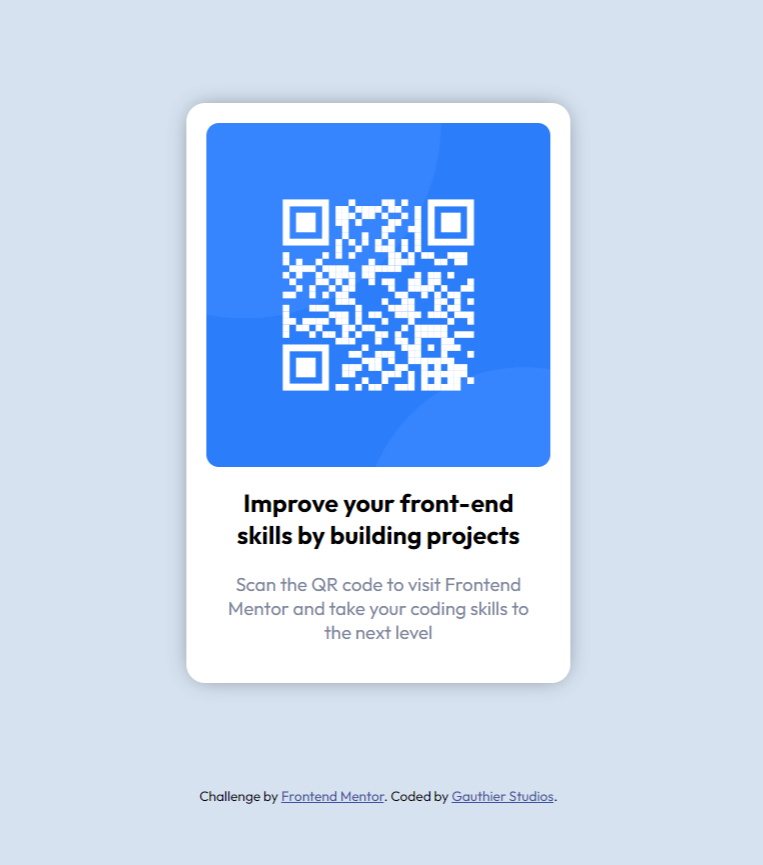
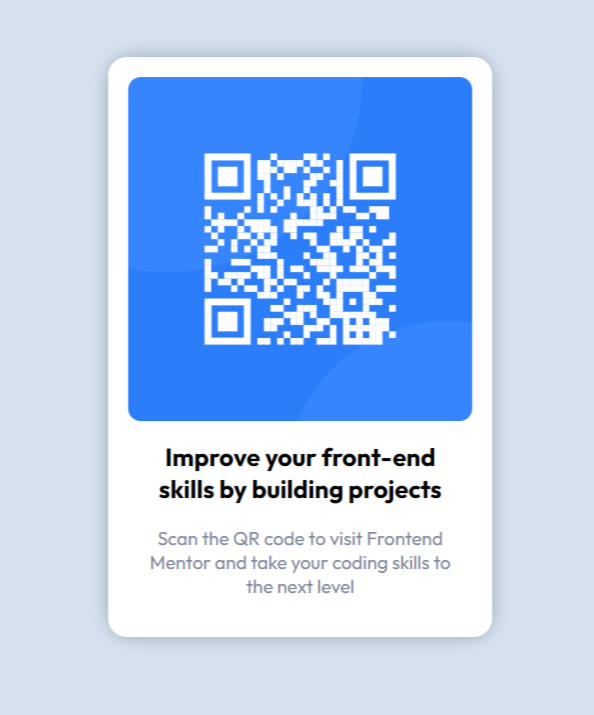
changing

diff --git a/css/main.css b/css/main.css
@@ -12,8 +12,9 @@
     /* accent */
     --accent: #FF5E5B;
     --accent50: #ff5e5b50;
-
-
+    --lightgray: hsl(212, 45%, 89%);
+    --grayishblue: hsl(220, 15%, 55%);
+    --darkblue: hsl(218, 44%, 22%);
     /* font size*/
     --h1-font-size: 3.5rem;
     --h2-font-size: 2.5em;
@@ -212,6 +213,7 @@ nav i:hover {
     #menu {
         display: block;
     }
+
     nav {
         padding: .30rem 0;
     }
@@ -224,6 +226,7 @@ nav i:hover {
         margin: auto;
         width: 100%;
     }
+
     nav div h1 a {
         margin: 0;
     }
@@ -231,9 +234,11 @@ nav i:hover {
     .icon {
         display: none;
     }
+
     .menu-items {
         margin-top: 0;
     }
+
     .menu-items ul {
         display: flex;
         justify-content: end;
@@ -242,6 +247,7 @@ nav i:hover {
     .menu-items ul li i {
         margin: 0;
     }
+
     .menu-items ul li {
         margin: 0 auto;
         font-size: var(--h5-font-size);
@@ -390,68 +396,105 @@ nav i:hover {
 /* My Work */
 
 .work {
-    height: 100vh;
-    background-color: black;
+    height: auto;
+    margin: 0 auto;
+    padding:  1em 0;
+    /* background-color: white; */
+}
+
+.work * {
+    /* color: ; */
 }
 
 .work h2 {
+    color: black;
     font-size: calc(var(--h2-font-size) + 40%);
     margin: 0;
     padding: .5em 0;
     text-align: center;
 }
 
-.work-card {
-    position: relative;
-    background-image: url(/assets/qrcode.png);
-    background-repeat: no-repeat;
-    background-size:cover;
-    height: 40vh;
+
+
+.cards-container {
+    height: 100vh;
+    padding: 0 2em;
+    display: flex;
+    flex-direction: row;
+    flex-wrap: wrap;
+    justify-content: space-between;
+}
+
+@media screen and (min-width: 800px){
+    .cards-container {
+            flex-wrap: nowrap;
+        }
+}
+
+
+.cards-inner {
+    margin: 0 10px;
+}
+
+.cards-inner p {
+    display: none;
+}
+
+
+.card {
+    /* box-shadow: rgb(0, 0, 0) 0px 25px 20px -20px; */
+    box-shadow: rgba(0, 0, 0, 0.18) 0px 2px 4px;
+    margin: 0 auto;
+}
+
+
+.card-content {
+    background-color: white;
+    border-radius: 15px;
+    border: var(--lightgray);
+    padding: 1em 1em 0 1em;
+    margin: 10vh 0;
     display: flex;
     flex-direction: column;
+    justify-content: center;
+    align-items: center;
+    box-shadow: 0px 0px 18px -6px rgba(0, 0, 0, 0.55);
 }
 
-.work-card * {
-    color: black;
+.card-content img {
+    width: 100%;
+    border-radius: 10px;
 }
 
-.work-card .date {
-    position: absolute;
-    bottom: 4px;
-    right: 1px;
-    font-size: var(--h6-font-size);
-    color: var(--secondary-color);
-    font-weight: 400;
-    letter-spacing: 6px;
-    align-self: flex-end;
-    justify-self: end;
-
-}
-
-
-
-.work-card ul{
-    position: absolute;
-    bottom: 4px;
-    left: 1px;
-    display: flex;
-}
-.work-card li {
+.card-content h2 {
+    font-weight: 700;
+    margin-top: 0px;
+    font-size: 1.25em;
     text-align: center;
-    border-right: 2px black solid;
-    margin: 0 5px;
-    padding: 0 7px;
-    list-style: none;
+
 }
 
-.work-card li:last-child {
-    border-right: none;
+.card-content p {
+    font-size: 15px;
+    font-weight: 400;
+    text-align: center;
+    color: var(--grayishblue);
 }
 
-.work-card li: hover {
-    color:grey;
+.content {
+    padding: 1em;
 }
 
+.attribution {
+    margin-top: 1vh;
+}
+
+@media screen and (min-width: 1440px) {
+    .card {
+        max-width: 20vw;
+    }
+
+}
 
 
 

diff --git a/index.html b/index.html
@@ -56,17 +56,56 @@
     </section>
     <!-- Work -->
     <section class="work" id="mywork">
-        <div class="inner-wrapper">
-            <h2>My Work</h2>
-            <!-- QR Code -->
-            <div class="work-card">
-                    <p class="date">Jan 2023</p>
-                    <p class="title">QR Code Card</p>
-                    <ul class="skills-list">
-                        <li>HTML</li>
-                        <li>CSS</li>
-                        <li>JavaScript</li>
-                    </ul>
+        <h2>My Work</h2>
+        <!-- QR Code -->
+        <div class="cards-container inner-wrapper">
+            <!-- Card #1 -->
+            <div class="cards-inner">
+                <div class="card">
+                    <div class="card-content">
+                        <img src="assets/image-qr-code.png" alt="qrcode on blue background">
+                        <div class="content">
+                            <h2>Improve your front-end skills by building projects</h2>
+                            <p>Scan the QR code to visit Frontend Mentor and take your coding skills to the next level
+                            </p>
+                        </div>
+                    </div>
+                </div>
+                <div class="card-info">
+                    <p>Lorem ipsum dolor sit amet, consectetur adipisicing elit</p>
+                </div>
+            </div>
+            <!-- Card #2 -->
+            <div class="cards-inner">
+                <div class="card">
+                    <div class="card-content">
+                        <img src="assets/image-qr-code.png" alt="qrcode on blue background">
+                        <div class="content">
+                            <h2>Improve your front-end skills by building projects</h2>
+                            <p>Scan the QR code to visit Frontend Mentor and take your coding skills to the next level
+                            </p>
+                        </div>
+                    </div>
+                </div>
+                <div class="card-info">
+                    <p>Lorem ipsum dolor sit amet, consectetur adipisicing elit</p>
+                </div>
+            </div>
+            <!-- Card #3 -->
+            <div class="cards-inner">
+                <div class="card">
+                    <div class="card-content">
+                        <img src="assets/image-qr-code.png" alt="qrcode on blue background">
+                        <div class="content">
+                            <h2>Improve your front-end skills by building projects</h2>
+                            <p>Scan the QR code to visit Frontend Mentor and take your coding skills to the next level
+                            </p>
+                        </div>
+                    </div>
+                </div>
+                <div class="card-info">
+                    <p>Lorem ipsum dolor sit amet, consectetur adipisicing elit</p>
+                </div>
             </div>
         </div>
     </section>
